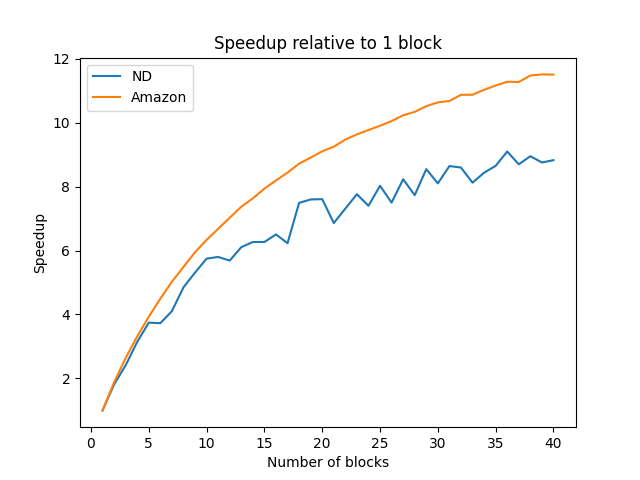
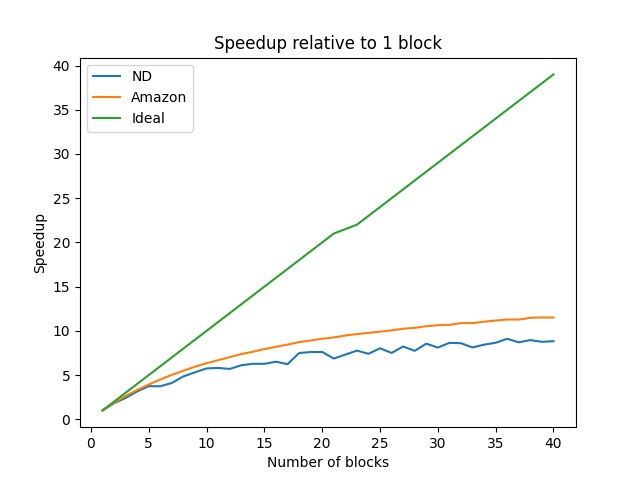
More stuff

diff --git a/RIM_data/gen_curip_graph.py b/RIM_data/gen_curip_graph.py
@@ -155,6 +155,7 @@ wiki_talk_lt_speedup = wiki_talk_df.loc[:,"speedup_LT"].to_numpy()
 wiki_talk_ic_speedup = wiki_talk_df.loc[:,"speedup_IC"].to_numpy()
 wiki_talk_rimr_dist = wiki_talk_df.loc[:,"rimr_dist"].to_numpy()
 wiki_talk_ic_dist = wiki_talk_df.loc[:,"ic_dist"].to_numpy()
+wiki_talk_lt_dist = wiki_talk_df.loc[:,"lt_dist"].to_numpy()
 
 
 
@@ -377,6 +378,78 @@ plt.show()
 
 fig.savefig("speedup_vs_K.png")
 
+
+fig = plt.figure()
+fig.set_figheight(16)
+fig.set_figwidth(16)
+fig.suptitle("IC Spread, RIMR and curipples")
+
+ax1 = plt.subplot2grid((4, 15), (0, 1), colspan=6)
+ax2 = plt.subplot2grid((4, 15), (0, 8), colspan=6)
+ax3 = plt.subplot2grid((4, 15), (1,1), colspan=6)
+ax4 = plt.subplot2grid((4, 15), (1,8), colspan=6)
+ax5 = plt.subplot2grid((4, 15), (2,1), colspan=6)
+ax6 = plt.subplot2grid((4, 15), (2,8), colspan=6)
+ax7 = plt.subplot2grid((4, 15), (3,4), colspan=7)
+
+# Add vertical space between the figures
+plt.subplots_adjust(hspace=0.5)
+
+## Plot the RIMR distance vs LT distance
+ax1.set_xlabel("K")
+ax1.set_ylabel("Distance")
+ax1.set_title("RIMR distance vs LT distance, HepTh")
+ax1.plot(hep_K, hep_rimr_dist, label="RIMR")
+ax1.plot(hep_K, hep_lt_dist, label="LT")
+ax1.legend()
+
+ax2.set_xlabel("K")
+ax2.set_ylabel("Distance")
+ax2.set_title("RIMR distance vs LT distance, ca-GrQc")
+ax2.plot(arxiv_K, arxiv_rimr_dist, label="RIMR")
+ax2.plot(arxiv_K, arxiv_lt_dist, label="LT")
+ax2.legend()
+
+ax3.set_xlabel("K")
+ax3.set_ylabel("Distance")
+ax3.set_title("RIMR distance vs LT distance, ND")
+ax3.plot(syn_K, syn_rimr_dist, label="RIMR")
+ax3.plot(syn_K, syn_lt_dist, label="LT")
+ax3.legend()
+
+ax4.set_xlabel("K")
+ax4.set_ylabel("Distance")
+ax4.set_title("RIMR distance vs LT distance, Amazon")
+ax4.plot(amazon_K, amazon_rimr_dist, label="RIMR")
+ax4.plot(amazon_K, amazon_lt_dist, label="LT")
+ax4.legend()
+
+ax5.set_xlabel("K")
+ax5.set_ylabel("Distance")
+ax5.set_title("RIMR distance vs LT distance, Berkeley")
+ax5.plot(berk_K, berk_rimr_dist, label="RIMR")
+ax5.plot(berk_K, berk_lt_dist, label="LT")
+ax5.legend()
+
+ax6.set_xlabel("K")
+ax6.set_ylabel("Distance")
+ax6.set_title("RIMR distance vs LT distance, Epinions")
+ax6.plot(epinions_K, epinions_rimr_dist, label="RIMR")
+ax6.plot(epinions_K, epinions_lt_dist, label="LT")
+ax6.legend()
+
+ax7.set_xlabel("K")
+ax7.set_ylabel("Distance")
+ax7.set_title("RIMR distance vs LT distance, WikiTalk")
+ax7.plot(wiki_talk_K, wiki_talk_rimr_dist, label="RIMR")
+ax7.plot(wiki_talk_K, wiki_talk_lt_dist, label="LT")
+ax7.legend()
+
+plt.subplots_adjust(left=0.1, right=0.9, bottom=0.1, top=0.9, wspace=0.25, hspace=0.2)
+plt.show()
+
+
+fig.savefig("distance_LT.png")
 
 
 

diff --git a/RIM_data/scale.py b/RIM_data/scale.py
@@ -26,9 +26,11 @@ amazon_time = amazon.loc[:,"time(ms)"].to_numpy()
 ## Plot speedup relative to 1 block
 speedup_nd = nd_time[0] / nd_time
 speedup_amazon = amazon_time[0] / amazon_time
+speedup_ideal = np.arange(1, 1+len(nd_blocks))
 
 plt.plot(nd_blocks, speedup_nd, label='ND')
 plt.plot(amazon_blocks, speedup_amazon, label='Amazon')
+plt.plot(nd_blocks, speedup_ideal, label='Ideal')
 plt.xlabel('Number of blocks')
 plt.ylabel('Speedup')
 plt.title('Speedup relative to 1 block')
